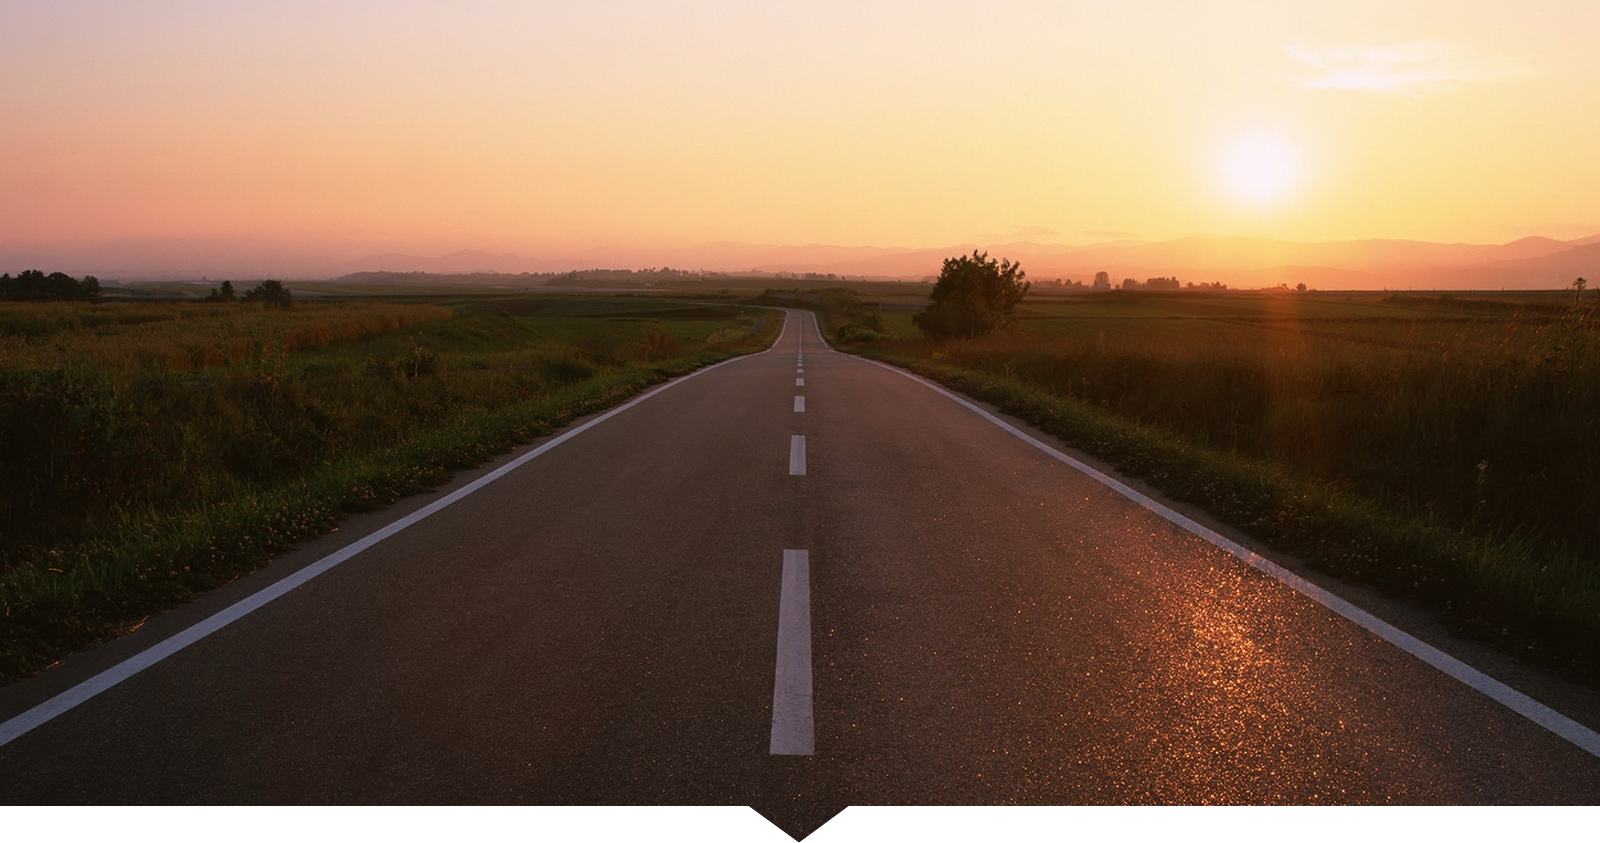
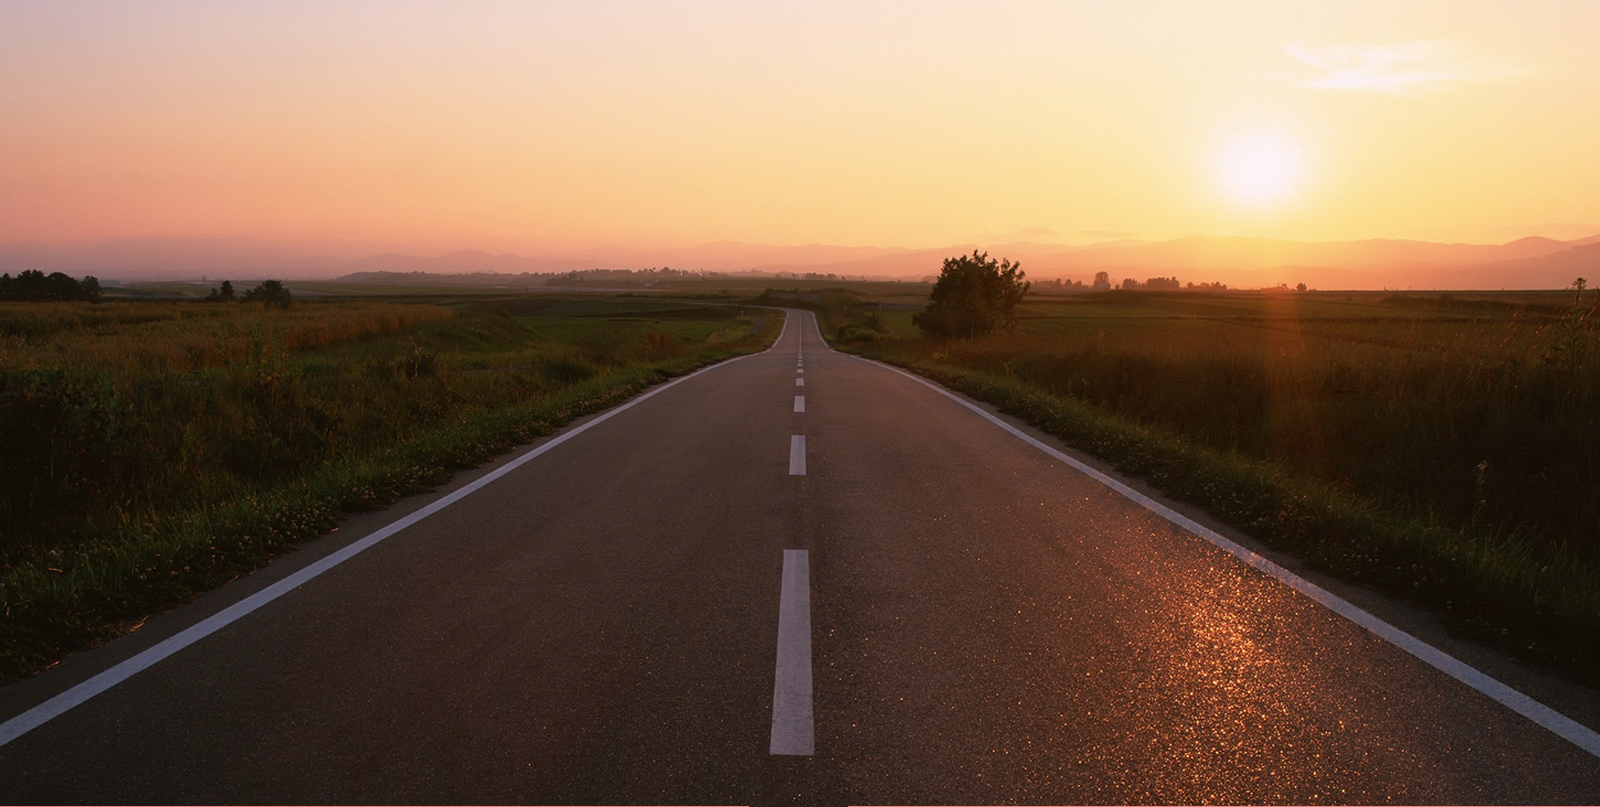
Add files via upload

diff --git a/css/style.css b/css/style.css
@@ -16,23 +16,22 @@ a {
 
 body {
     width: 100%;
+    height: 100%;
     max-width: 1600px;
     margin: 0 auto;
 }
 
 header {
-    height: 806px;
-    background: url("../img/header.png") no-repeat 100% 100%;
-    background-color: black;
-    background-size: 100%;
+    height: 807px;
+    background: url("../img/header.png") no-repeat;
+    background-color: gray;
     clip-path: polygon(0 0, 100% 0, 100% 95.285%, 53.25% 95.285%, 50% 100%, 46.75% 95.285%, 0 95.285%);
 }
 
 .main {
     height: 1038px;
-    clip-path: polygon(0 0, 46.75% 0, 50% 38px, 53.25% 0, 100% 0, 100% 1000px, 53.25% 1000px, 50% 1038px, 46.75% 1000px, 0 1000px);
+    clip-path: polygon(0 0, 46.75% 0, 50% 3.66%, 53.25% 0, 100% 0, 100% 96.34%, 53.25% 96.34%, 50% 100%, 46.75% 96.34%, 0 96.34%);
     margin-top: -39px;
-    padding-right: 1px;
 }
 
 .hidden {
@@ -56,7 +55,7 @@ header {
 
 .main4 {
     background-color: #3F9FC9;
-    clip-path: polygon(0 0, 46.75% 0, 50% 38px, 53.25% 0, 100% 0, 100% 1000px, 0 1000px);
+    clip-path: polygon(0 0, 46.75% 0, 50% 3.66%, 53.25% 0, 100% 0, 100% 96.34%, 0 96.34%);
 } 
 
 footer {
